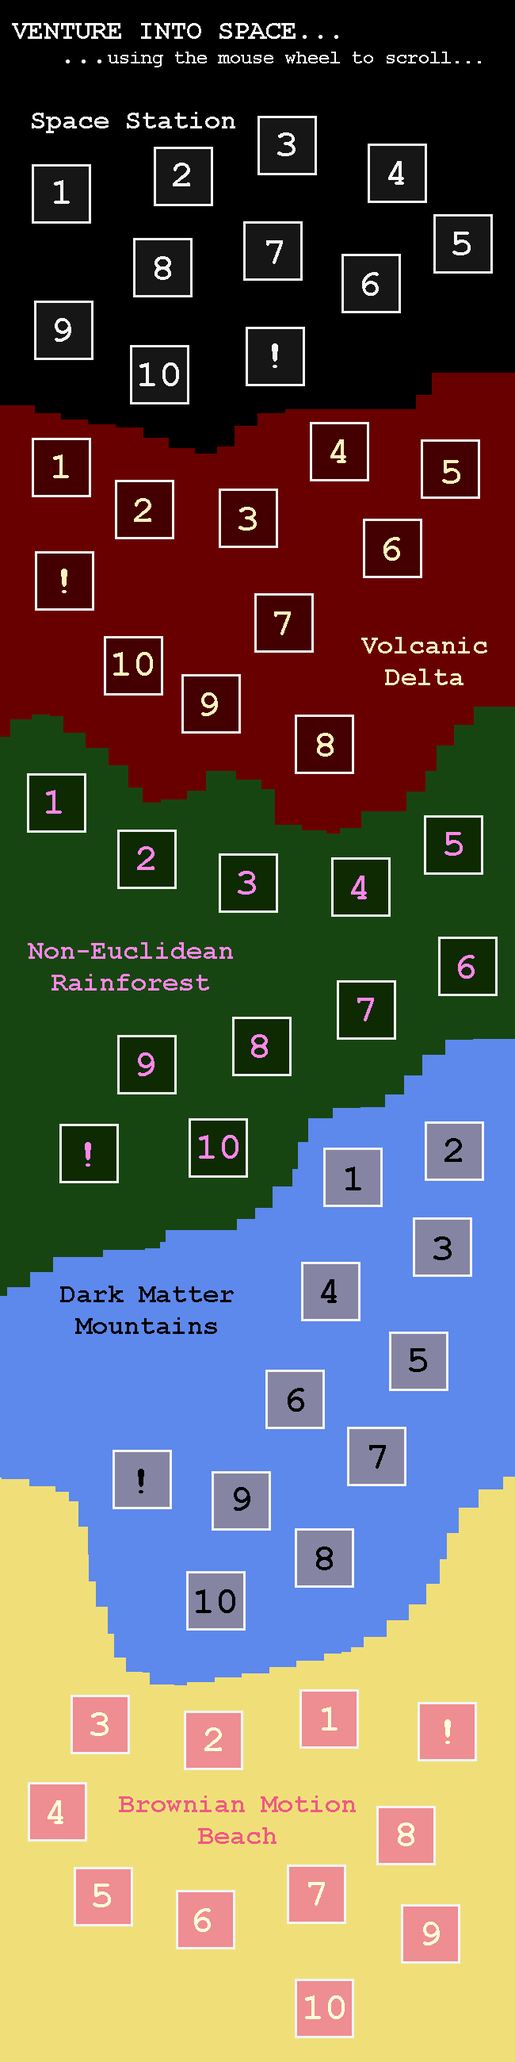
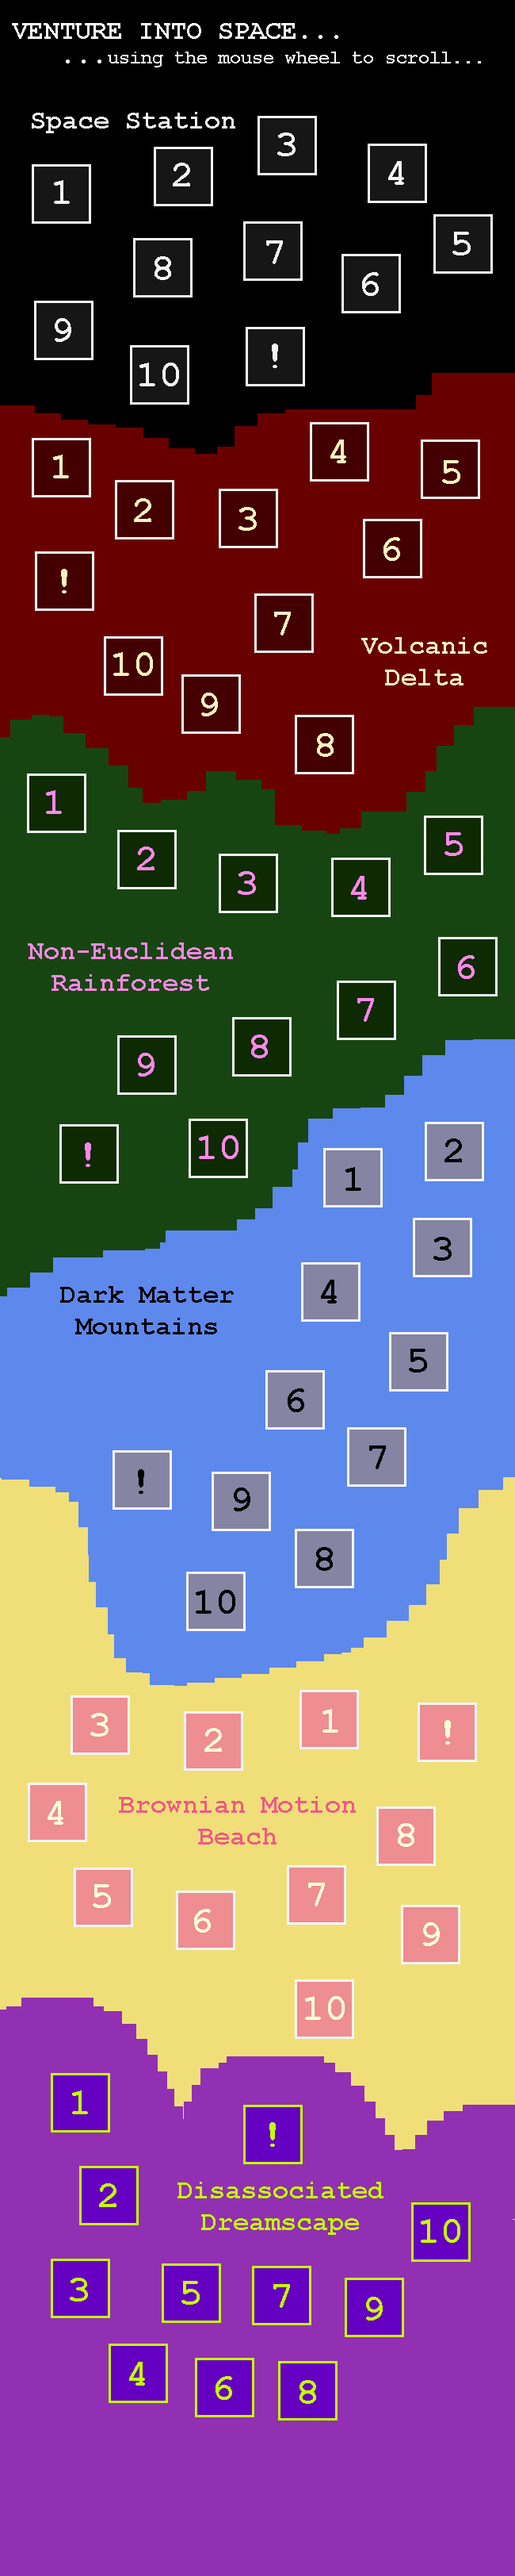
new things commmmmmmmmmmmmming

diff --git a/src/lib/gameStateInfo.py b/src/lib/gameStateInfo.py
@@ -175,7 +175,7 @@ class GameStateInfo:
     def processLevelSelect(self, event: pygame.event.Event):        
         if event.type == pygame.MOUSEWHEEL:
             self.scrollMod += 20 * event.y
-            self.scrollMod = max(min(0, self.scrollMod), -2600 + SCREEN_HEIGHT)
+            self.scrollMod = max(min(0, self.scrollMod), -3247 + SCREEN_HEIGHT)
         elif event.type == pygame.KEYDOWN:
             if event.key == pygame.K_ESCAPE:
                 self.mode = "Title Screen"
